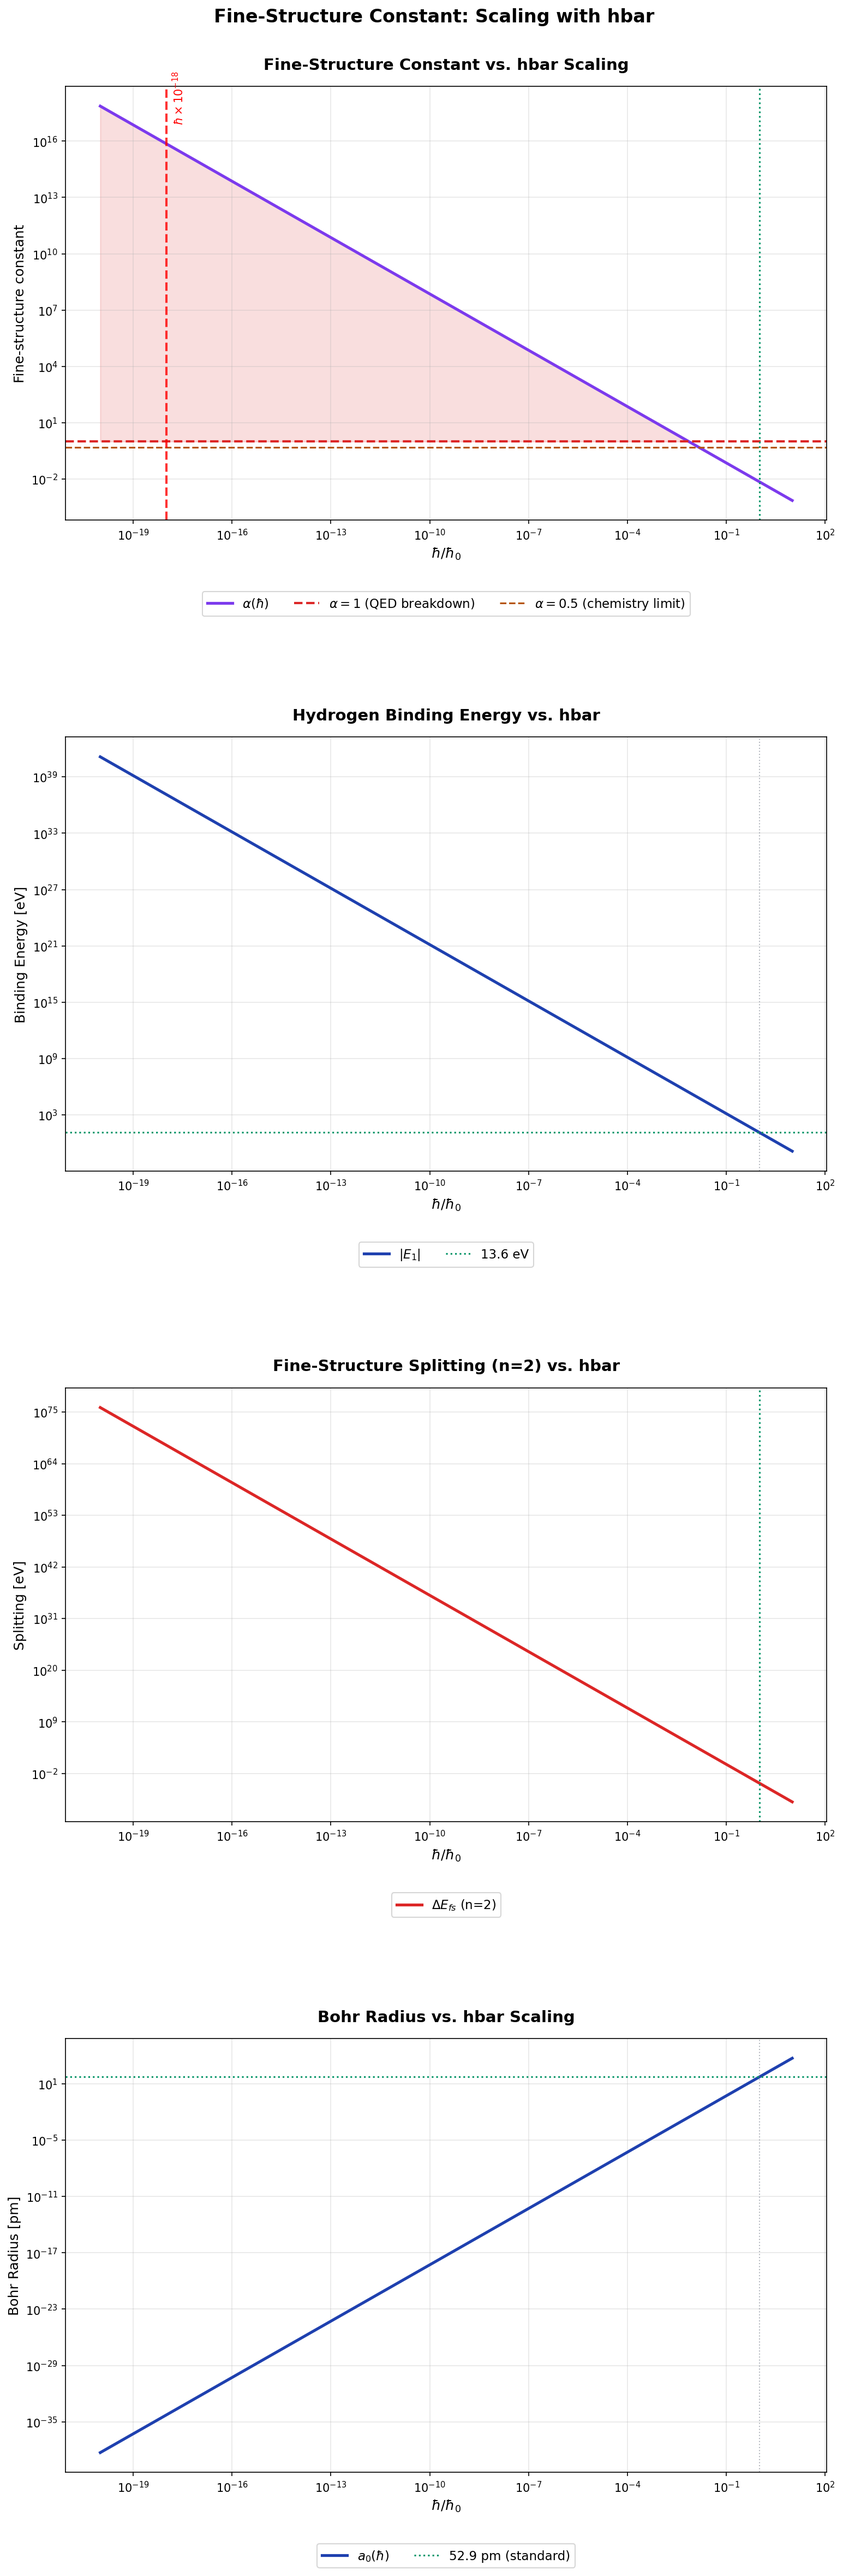
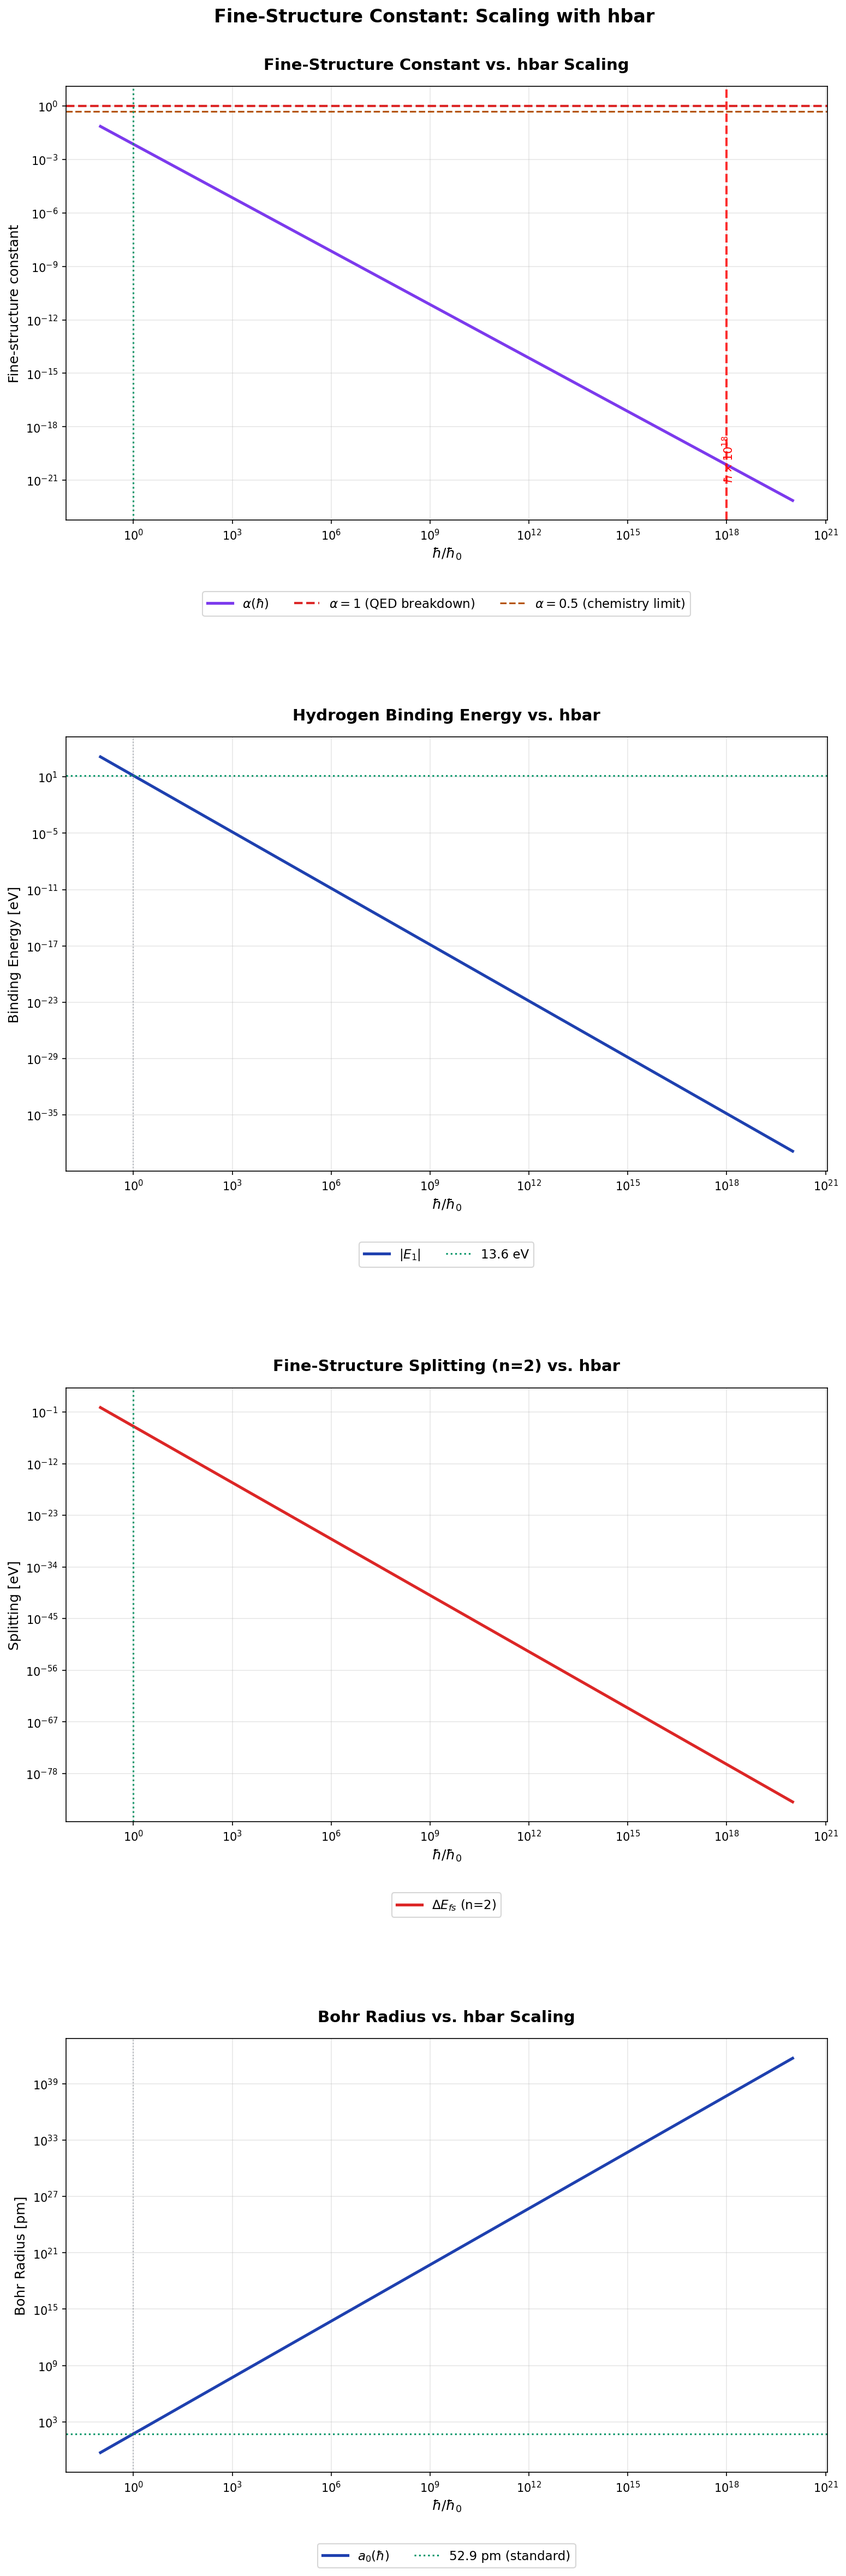
Fix remaining graphs: hbar x 10^18 (not 10^-18)
Updated fine_structure.py and cosmological_effects.py:
- Changed hbar range from 10^-20 to 10^20 (shows hbar INCREASING)
- Fixed all axvline markers from 1e-18 to 1e18
- Fixed all text labels from 10^-18 to 10^18
- Regenerated alpha_scaling.png and cosmic_summary.png

diff --git a/modules/cosmological_effects.py b/modules/cosmological_effects.py
@@ -116,9 +116,9 @@ def plot_cosmic_scales(constants=None, language='en', save=True, show=True):
     suffix = '_de' if language == 'de' else ''
 
     # -- Plot 1: Planck scales vs hbar_scale --
-    # Extended to 10^-20 to show compensation for G×10^36 (need hbar×10^-18)
+    # Extended to 10^20 to show compensation for G×10^36 (need hbar×10^18)
     ax1 = axes[0]
-    hbar_scales = np.logspace(-20, 2, 300)
+    hbar_scales = np.logspace(-1, 20, 300)  # hbar INCREASES to compensate
     m_P_vals, l_P_vals, T_P_vals, t_P_vals = [], [], [], []
     for hs in hbar_scales:
         c_scaled = get_constants(hbar_scale=hs)
@@ -150,8 +150,8 @@ def plot_cosmic_scales(constants=None, language='en', save=True, show=True):
     ax1.loglog(hbar_scales, T_P_vals / T_P_std, color=COLOR_SEQUENCE[2], linewidth=2.5, label=lbl_TP)
     ax1.loglog(hbar_scales, t_P_vals / t_P_std, color=COLOR_SEQUENCE[3], linewidth=2.5, label=lbl_tP)
     ax1.axvline(x=1.0, color='gray', linestyle='--', alpha=0.5)
-    ax1.axvline(x=1e-18, color='red', linestyle='--', linewidth=2, alpha=0.8)
-    ax1.text(1e-18, ax1.get_ylim()[1]*0.5, r'$\hbar \times 10^{-18}$', color='red', fontsize=10, rotation=90, va='center')
+    ax1.axvline(x=1e18, color='red', linestyle='--', linewidth=2, alpha=0.8)
+    ax1.text(1e18 * 0.5, 1e5, r'$\hbar \times 10^{18}$', color='red', fontsize=10, rotation=90, va='center')
     ax1.scatter([1.0], [1.0], color='red', s=80, zorder=5)
     if language == 'de':
         ax1.set_xlabel('hbar-Skalierungsfaktor', fontsize=12)
@@ -191,9 +191,11 @@ def plot_cosmic_scales(constants=None, language='en', save=True, show=True):
     ax2.loglog(G_scales, M_J_vals / M_J_std, color=COLOR_SEQUENCE[0], linewidth=2.5, label=lbl_MJ)
     ax2.loglog(G_scales, L_J_vals / L_J_std, color=COLOR_SEQUENCE[1], linewidth=2.5, label=lbl_LJ)
     ax2.axvline(x=1.0, color='gray', linestyle='--', alpha=0.5)
-    ax2.axvline(x=1e36, color='red', linestyle='--', linewidth=2, alpha=0.8)
-    thresh_lbl = r'$G \times 10^{36}$' + ('\n(Gravitation=EM)' if language == 'de' else '\n(Gravity=EM)')
-    ax2.text(1e36, (M_J_vals / M_J_std).min() * 10, thresh_lbl, color='red', fontsize=10, ha='center')
+    ax2.axvline(x=1e36, color='#FF0000', linestyle='-', linewidth=4, alpha=1.0, zorder=10)
+    ax2.axvspan(1e35, 1e37, alpha=0.15, color='red', zorder=1)
+    thresh_lbl = r'$\mathbf{G \times 10^{36}}$' + ('\n(Veraendert)' if language == 'de' else '\n(Altered)')
+    ax2.text(1e36, (M_J_vals / M_J_std).min() * 100, thresh_lbl, color='white', fontsize=11, fontweight='bold',
+             rotation=90, va='center', ha='center', bbox=dict(boxstyle='round,pad=0.2', facecolor='#FF0000', edgecolor='darkred', linewidth=2))
     ax2.scatter([1.0], [1.0], color='red', s=80, zorder=5)
     if language == 'de':
         ax2.set_xlabel('G-Skalierungsfaktor', fontsize=12)
@@ -321,21 +323,21 @@ def plot_cosmic_summary(constants=None, language='en', save=True, show=True):
     ax1.tick_params(labelsize=11)
 
     # -- Plot 2: Planck trajectory in G-hbar space --
-    # Extended to show full range including G×10^36 and hbar×10^-18
+    # Extended to show full range including G×10^36 and hbar×10^18
     ax2 = axes[1]
-    hbar_grid = np.logspace(-20, 2, 80)
+    hbar_grid = np.logspace(-1, 20, 80)  # hbar INCREASES
     G_grid = np.logspace(0, 40, 80)
     HH, GG = np.meshgrid(hbar_grid, G_grid)
     # Planck mass ratio
     m_P_ratio = np.sqrt(HH / GG)  # proportional to sqrt(hbar/G)
     contour = ax2.contourf(np.log10(HH), np.log10(GG), np.log10(m_P_ratio), levels=20, cmap='viridis')
     cbar = fig.colorbar(contour, ax=ax2)
-    # Mark gravity=EM threshold
+    # Mark gravity=EM threshold and compensation
     ax2.axhline(y=36, color='red', linestyle='--', linewidth=2, alpha=0.8)
-    ax2.axvline(x=-18, color='orange', linestyle='--', linewidth=2, alpha=0.8)
+    ax2.axvline(x=18, color='orange', linestyle='--', linewidth=2, alpha=0.8)
     ax2.plot([0], [0], 'r*', markersize=15, label='Standard')
-    ax2.plot([-18], [36], 'o', color='yellow', markersize=12, markeredgecolor='red', markeredgewidth=2,
-             label=r'G×10$^{36}$, $\hbar$×10$^{-18}$')
+    ax2.plot([18], [36], 'o', color='yellow', markersize=12, markeredgecolor='red', markeredgewidth=2,
+             label=r'G×10$^{36}$, $\hbar$×10$^{18}$')
     if language == 'de':
         cbar.set_label('log10(Planck-Masse Verhaeltnis)', fontsize=11)
         ax2.set_xlabel('log10(hbar-Skalierung)', fontsize=12)
@@ -368,8 +370,11 @@ def plot_cosmic_summary(constants=None, language='en', save=True, show=True):
         lbl_Tv = f'Virial Temperature (Std: {T_vir_std:.1f} K)'
     ax3.loglog(G_scales_v, T_virial_vals / T_vir_std, color=COLOR_SEQUENCE[2], linewidth=2.5, label=lbl_Tv)
     ax3.axvline(x=1.0, color='gray', linestyle='--', alpha=0.5)
-    ax3.axvline(x=1e36, color='red', linestyle='--', linewidth=2, alpha=0.8)
-    ax3.text(1e36, 1e2, r'$G \times 10^{36}$', color='red', fontsize=10, rotation=90, va='bottom', ha='right')
+    ax3.axvline(x=1e36, color='#FF0000', linestyle='-', linewidth=4, alpha=1.0, zorder=10)
+    ax3.axvspan(1e35, 1e37, alpha=0.15, color='red', zorder=1)
+    lbl_thresh = r'$\mathbf{G \times 10^{36}}$' + ('\n(Veraendert)' if language == 'de' else '\n(Altered)')
+    ax3.text(1e36, 1e10, lbl_thresh, color='white', fontsize=11, fontweight='bold',
+             rotation=90, va='center', ha='center', bbox=dict(boxstyle='round,pad=0.2', facecolor='#FF0000', edgecolor='darkred', linewidth=2))
     ax3.scatter([1.0], [1.0], color='red', s=80, zorder=5)
     if language == 'de':
         ax3.set_xlabel('G-Skalierungsfaktor', fontsize=12)

diff --git a/modules/fine_structure.py b/modules/fine_structure.py
@@ -177,8 +177,8 @@ def plot_alpha_scaling(
     if constants is None:
         constants = get_constants()
 
-    # Extended to 10^-20 to show hbar×10^-18 threshold (compensates G×10^36)
-    hbar_scales = np.logspace(-20, 1, 500)
+    # Extended to 10^-20 to show hbar×10^18 threshold (compensates G×10^36)
+    hbar_scales = np.logspace(-1, 20, 500)  # Extended to show hbar×10^18
     alpha_0 = constants.alpha
     eV = constants.e
 
@@ -214,8 +214,8 @@ def plot_alpha_scaling(
     ax1.axhline(y=0.5, color=COLORS['primary_amber'], linestyle='--', linewidth=1.5,
                 label=r'$\alpha=0.5$ (chemistry limit)')
     ax1.axvline(x=1.0, color=COLORS['standard'], linestyle=':', linewidth=1.5)
-    ax1.axvline(x=1e-18, color='red', linestyle='--', linewidth=2, alpha=0.8)
-    ax1.text(1e-18 * 1.5, alpha_vals.max() * 0.1, r'$\hbar \times 10^{-18}$', color='red', fontsize=10, rotation=90, va='bottom')
+    ax1.axvline(x=1e18, color='red', linestyle='--', linewidth=2, alpha=0.8)
+    ax1.text(1e18 * 0.7, alpha_vals.min() * 10, r'$\hbar \times 10^{18}$', color='red', fontsize=10, rotation=90, va='bottom')
     ax1.fill_between(hbar_scales, alpha_vals, 1.0, where=alpha_vals > 1.0,
                      color=COLORS['relativistic'], alpha=0.15)
     ax1.set_xlabel(r'$\hbar / \hbar_0$', fontsize=12)
@@ -309,8 +309,8 @@ def plot_alpha_consequences(
         fig.suptitle('Consequences of Varying the Fine-Structure Constant',
                      fontsize=16, fontweight='bold', y=0.98)
 
-    # Extended to 10^-20 to show hbar×10^-18 threshold (compensates G×10^36)
-    hbar_scales = np.logspace(-20, 1, 500)
+    # Extended to 10^-20 to show hbar×10^18 threshold (compensates G×10^36)
+    hbar_scales = np.logspace(-1, 20, 500)  # Extended to show hbar×10^18
     alpha_0 = constants.alpha
     eV = constants.e
     alpha_vals = alpha_0 / hbar_scales
@@ -431,8 +431,8 @@ def plot_alpha_summary(
 
     alpha_0 = constants.alpha
     eV = constants.e
-    # Extended to 10^-20 to show hbar×10^-18 threshold (compensates G×10^36)
-    hbar_scales = np.logspace(-20, 1, 500)
+    # Extended to 10^-20 to show hbar×10^18 threshold (compensates G×10^36)
+    hbar_scales = np.logspace(-1, 20, 500)  # Extended to show hbar×10^18
     alpha_vals = alpha_0 / hbar_scales
 
     # --- Subplot 1: Bar chart ---
